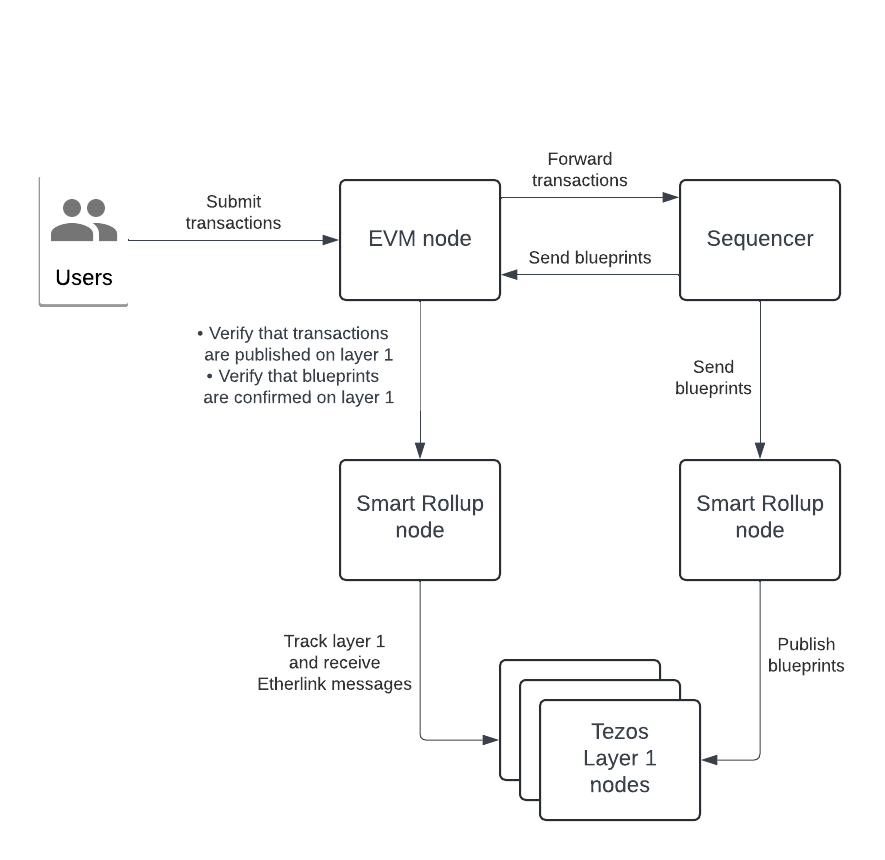
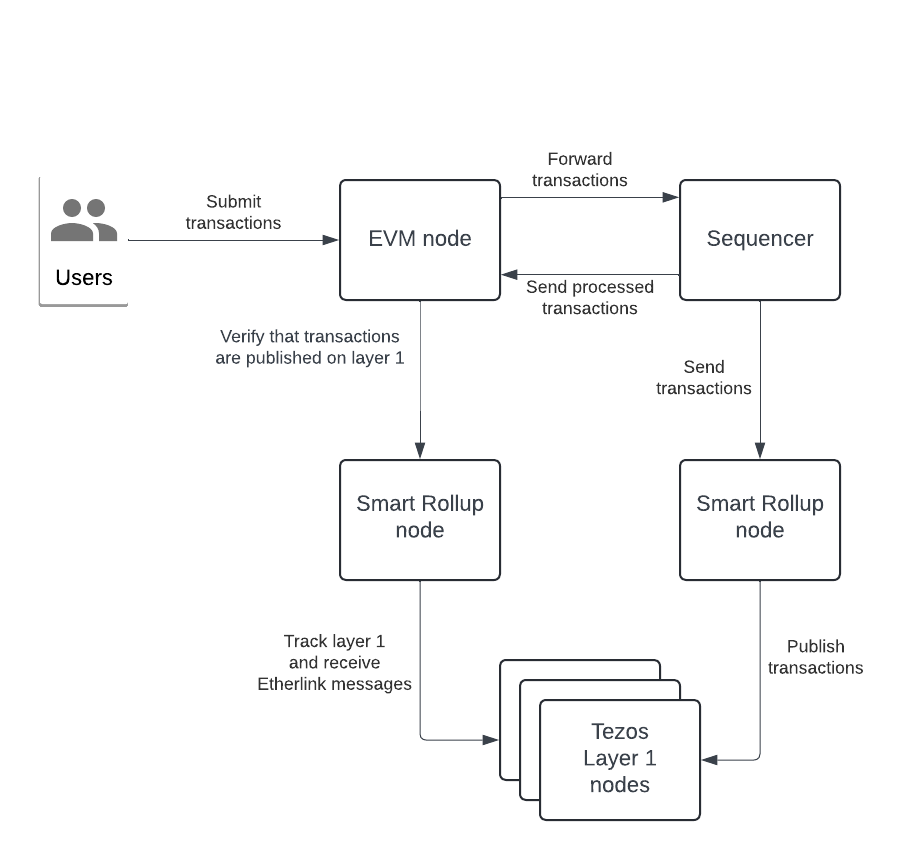
Remove mention of blueprints and clarify the sequencer

diff --git a/docs/network/architecture.md b/docs/network/architecture.md
@@ -6,25 +6,29 @@ Etherlink's main components are its nodes and the sequencer.
 
 ## Sequencer
 
-Etherlink relies on a sequencer to process transactions.
-It receives transactions from nodes and packages them into _blueprints_, which are like blocks.
-In the context of Etherlink, the transactions in a blueprint are final, but they are not final for layer 1 until they are published on layer 1.
+Etherlink relies on a sequencer to publish transactions.
+It receives transactions from EVM nodes, puts them in order, and publishes them in two ways:
+
+- It publishes transactions to EVM nodes, which can consider them final as long as they trust that the sequencer will publish them to layer 1.
+- It publishes transactions to Tezos layer 1, which finalizes them.
 
 ## Nodes
 
-In its life cycle, an Etherlink transaction goes through three distinct types of nodes, each responsible for different aspects of Etherlink's features.
+In its life cycle, an Etherlink transaction goes through three distinct types of nodes.
 These three nodes are being developed as part of the [Octez software suite](https://tezos.gitlab.io/introduction/tezos.html):
 
 - EVM nodes (`octez-evm-node`): The EVM nodes maintain a local copy of the Etherlink context and expose a [JSON RPC API](https://ethereum.org/en/developers/docs/apis/json-rpc/)-compliant endpoint for clients to submit transactions to.
-They forward these transactions to the sequencer and receive blueprints that contain transactions, which they use to update their state.
-They also check Smart Rollup nodes to verify that these blueprints make it to Tezos layer 1.
+They forward these transactions to the sequencer and receive transactions from the sequencer, which they use to update their state.
+They also check Smart Rollup nodes to verify that these transactions make it to Tezos layer 1.
 - Smart Rollup nodes (`octez-smart-rollup-node`): Smart Rollup nodes store the state of the Etherlink blockchain from the perspective of Tezos layer 1.
-  They monitor the Tezos layer 1 rollup inbox, filter the inbox to Etherlink-related messages, process them, and update their states.
+  They monitor the Tezos layer 1 Smart Rollup inbox, filter the inbox to Etherlink-related messages, process them, and update their states.
 
-  The Smart Rollup nodes store the state of Etherlink based on the information that they get from layer 1, not on information from EVM nodes or the sequencer.
+  Importantly, the Smart Rollup nodes store the state of Etherlink based on the information that they get from layer 1, not on information from EVM nodes or the sequencer.
 
   For more information about Smart Rollup nodes in general, see [Smart Rollups](https://docs.tezos.com/architecture/smart-rollups) on docs.tezos.com.
-- Tezos layer 1 nodes (`octez-node`): The Smart Rollup Nodes submit layer 1 operations with the blueprints to a layer 1 node.
+- Tezos layer 1 nodes (`octez-node`): Layer 1 nodes are responsible for the state of layer 1.
+In addition to ordinary layer 1 transactions, they receive Etherlink transactions from the sequencer.
+Then the baking nodes publish the Etherlink transactions in the Smart Rollup inbox in layer 1 blocks.
 For more information about Tezos layer 1 and its nodes, see [Architecture](https://docs.tezos.com/architecture) on docs.tezos.com.
 
 ## Diagram
@@ -39,9 +43,8 @@ The overall lifecycle of a typical operation is as follows:
 
 1. A user submits a transaction to an EVM node.
 1. The EVM node forwards the transaction to the sequencer.
-1. The sequencer includes the transaction in a new blueprint as soon as possible (less than 500ms after receiving it in a nominal scenario).
-1. The sequencer sends the blueprint to a Smart Rollup node running Etherlink's kernel.
-1. The sequencer also shares the new blueprint with the EVM nodes for them to update their states.
-1. The Smart Rollup node publishes the blueprint to layer 1.
-1. The Smart Rollup nodes tracking the state of Etherlink fetch the new Etherlink blueprints from layer 1 and update their states.
+1. The sequencer puts the transaction in its queue as soon as possible (less than 500ms after receiving it in a nominal scenario).
+1. The sequencer publishes the transaction to the EVM nodes.
+1. The sequencer publishes the transaction to layer 1.
+1. The Smart Rollup nodes tracking the state of Etherlink fetch the new Etherlink transactions from layer 1 and update their states.
 1. The EVM nodes check the state of the Smart Rollup nodes to verify that transactions have successfully and faithfully been finalized on layer 1.
